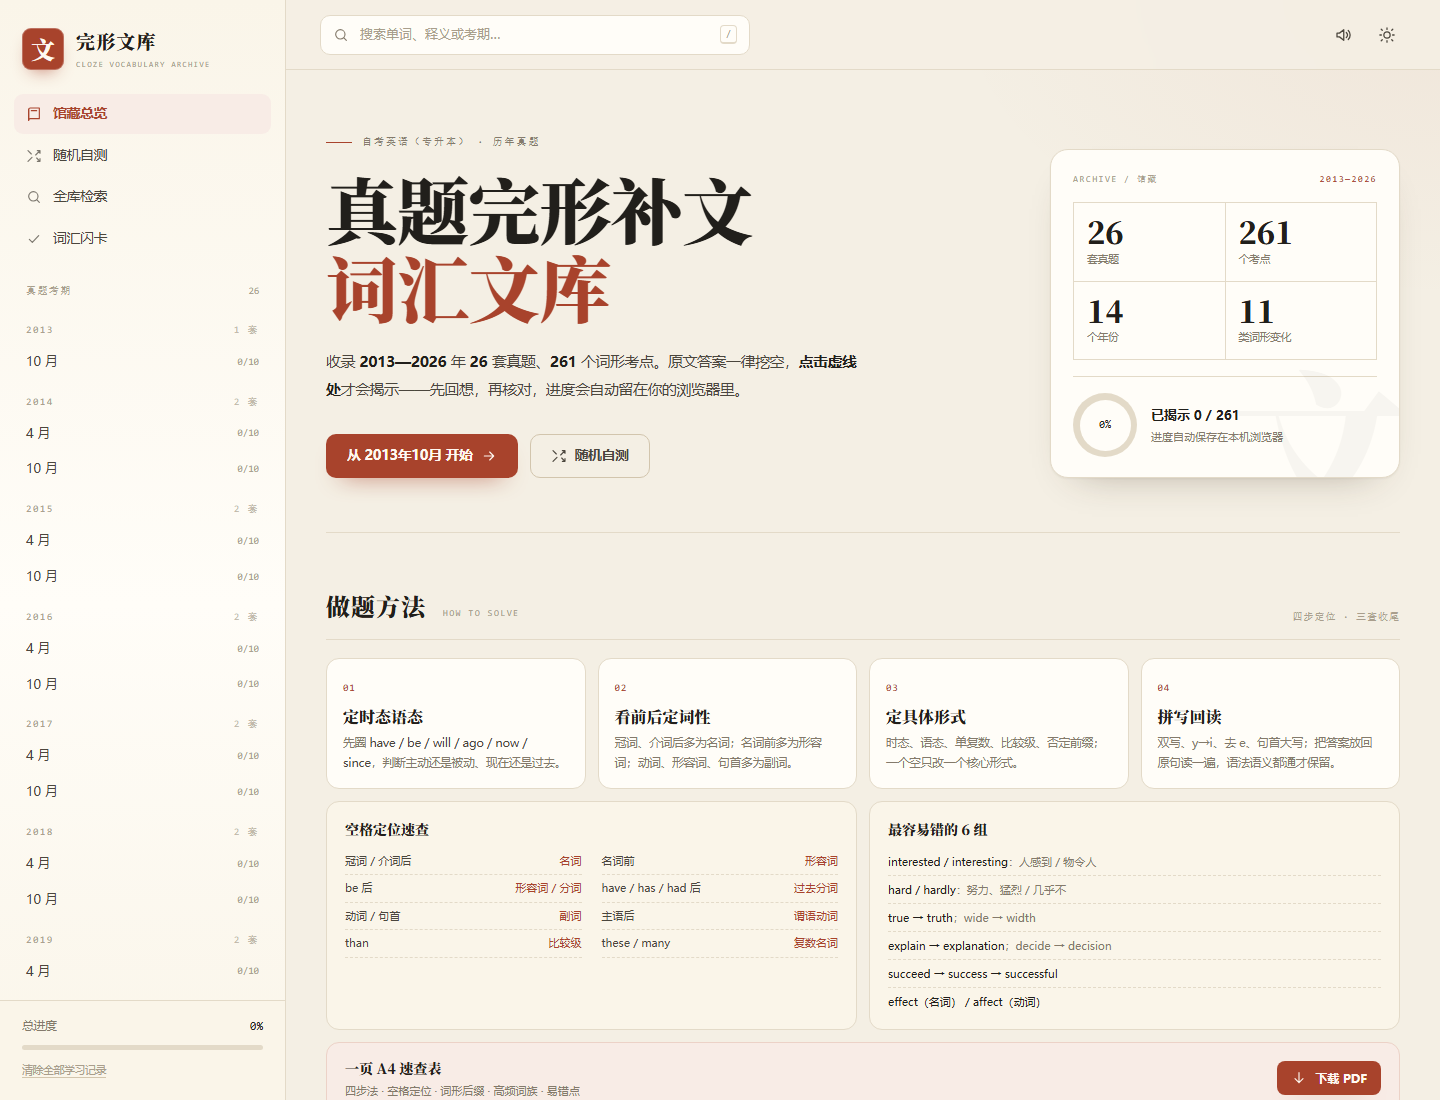
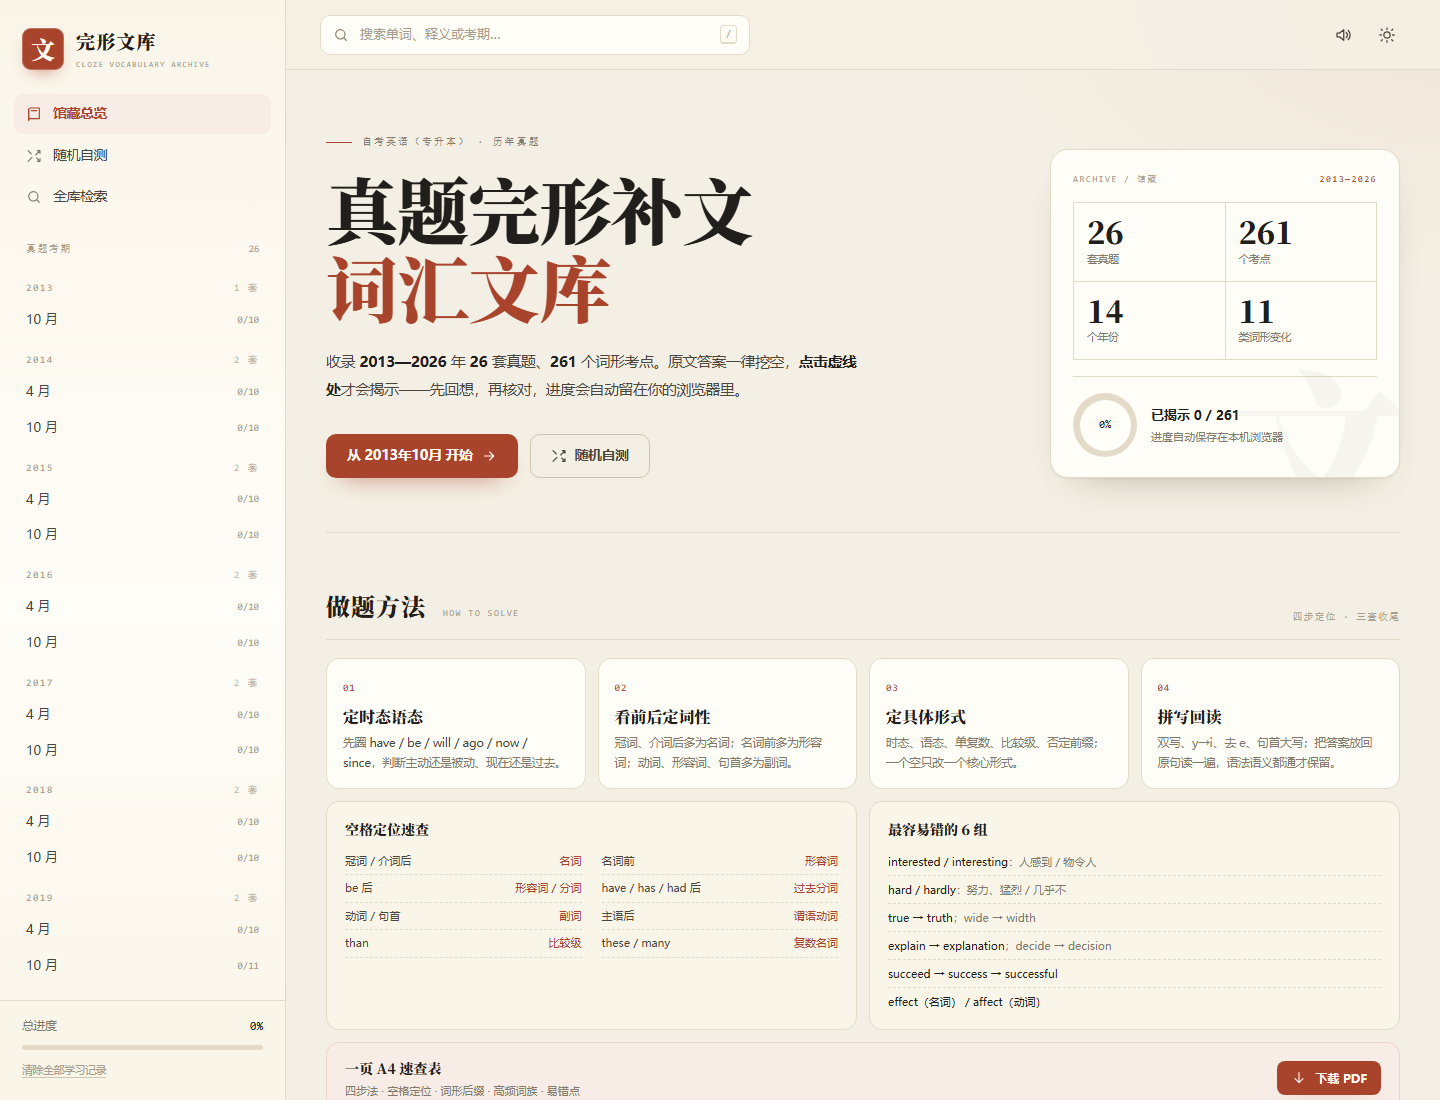
Add files via upload

diff --git a/index.html b/index.html
@@ -53,10 +53,6 @@
           <svg class="icon" aria-hidden="true"><use href="#i-search"></use></svg>
           <span>全库检索</span>
         </a>
-        <a class="side-link" href="flashcards/index.html">
-          <svg class="icon" aria-hidden="true"><use href="#i-check"></use></svg>
-          <span>词汇闪卡</span>
-        </a>
 
         <div class="side-label">真题考期 <span id="paperCount">26</span></div>
         <div id="paperNav" class="paper-nav"></div>

diff --git a/README.md b/README.md
@@ -28,10 +28,6 @@
 │   ├── js/app.js              # 交互逻辑（路由、检索、自测、进度、TTS）
 │   ├── js/data.js             # 由 DOCX 生成的题库数据
 │   └── favicon.svg
-├── flashcards/                # 填词补文 120 词闪卡（独立小站）
-│   ├── index.html
-│   ├── assets/                # 闪卡样式、脚本、TTS
-│   └── data/words.js          # 120 词数据
 ├── source/
 │   └── 真题完形补文词汇总表.docx   # 原始文档（数据源）
 ├── scripts/
@@ -66,7 +62,7 @@ python -m http.server 8000
 
 > **网页上传**：打开本文件夹，按 `Ctrl+A` 选中里面的**所有文件和文件夹**，再整体拖进 GitHub 的 Upload files 上传框。不要把最外层的“完形单词在线练习”文件夹本身拖进去，否则站点会多一层目录。
 >
-> 必须包含 `assets/`、`flashcards/` 和根目录的 `完形补文做题技巧-一页速查.pdf`；缺 `assets/` 会变成无样式裸页面，缺 PDF 则首页下载按钮 404。
+> 必须包含 `assets/` 和根目录的 `完形补文做题技巧-一页速查.pdf`；缺 `assets/` 会变成无样式裸页面，缺 PDF 则首页下载按钮 404。
 
 在项目目录执行：
 
@@ -91,9 +87,9 @@ git push -u origin main
 
 本站是纯静态页面，无需 Actions、无需构建。`.nojekyll` 已包含，避免下划线文件被 Jekyll 忽略。
 
-> **上传注意**：用 GitHub 网页上传时，必须把 `assets/` 整个文件夹一起上传（包含 `css/main.css`、`js/app.js`、`js/data.js`、`favicon.svg`），同时上传 `flashcards/` 目录。只上传根目录文件会导致 CSS/JS 404，页面显示为无样式的裸 HTML。
+> **上传注意**：用 GitHub 网页上传时，必须把 `assets/` 整个文件夹一起上传（包含 `css/main.css`、`js/app.js`、`js/data.js`、`favicon.svg`）。只上传根目录文件会导致 CSS/JS 404，页面显示为无样式的裸 HTML。
 >
-> 自检：部署后直接打开 `/assets/css/main.css`、`/assets/js/data.js` 和 `/flashcards/`，应能正常访问；若返回 404，说明对应目录没有传到仓库根目录。
+> 自检：部署后直接打开 `/assets/css/main.css` 和 `/assets/js/data.js`，应能看到文件内容；若返回 404，说明 `assets` 没有传到仓库根目录。
 >
 > `source/` 决定“下载原始 DOCX”链接是否可用，`scripts/` 仅用于以后重新生成题库；两者不影响页面显示，但建议一并上传。
 >
@@ -160,19 +156,10 @@ python scripts/build_data.py "source/真题完形补文词汇总表.docx"
 - 2018 年 10 月为《Keeping Friendship Alive》，与 2018 年 4 月的《Workplace English Learning》为两套不同内容。
 - 2018 年 10 月按原文 41–50 题提取；文首 `(friend)` 是示例（`friends` 已给出），不计入 10 个考点。
 
-## 配套：填词补文 120 词闪卡
-
-`flashcards/` 是本库配套的另一个小站：把《填词补文 5 天刷题计划》里的 120 个高频词做成可翻面的快刷闪卡，支持按天分组、中英互测、错词重刷、真题例句、发音与本地进度。
-
-- 入口：`flashcards/index.html`（首页侧栏「词汇闪卡」也可进入）
-- 部署后的地址：`https://<用户名>.github.io/<仓库名>/flashcards/`
-- 数据与页面分离，改词只动 `flashcards/data/words.js`
-- 发音同样走 Edge TTS（`assets/tts.js`），手机 / 微信内可播，首次点一下喇叭解锁
-- 详细说明见 [`flashcards/README.md`](flashcards/README.md)
-
 ## 说明
 
-- 学习进度为浏览器本地数据，换设备或清除缓存后不会保留；「重新开始」只清除当前试卷，「清除全部学习记录」会清零所有进度。- 2018 年 10 月的题目已更正，站点首次加载新版本时会清空该卷旧进度，其他试卷进度不受影响。
+- 学习进度为浏览器本地数据，换设备或清除缓存后不会保留；「重新开始」只清除当前试卷，「清除全部学习记录」会清零所有进度。
+- 2018 年 10 月的题目已更正，站点首次加载新版本时会清空该卷旧进度，其他试卷进度不受影响。
 - 文字内容可离线浏览；单词发音由 Edge TTS 在线合成，需要联网，接口不可用时会以提示条告知。
 - 页面无第三方统计、无外部字体请求。
 - 建议使用较新的 Chrome / Edge / Safari / Firefox；微信内置浏览器可直接打开。
